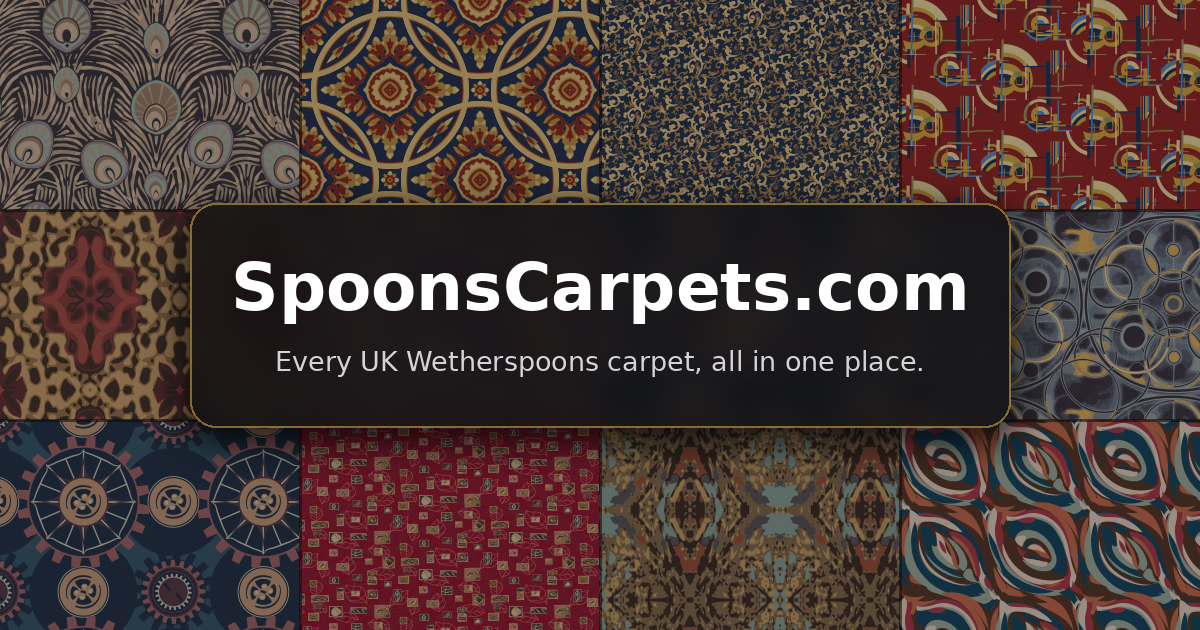
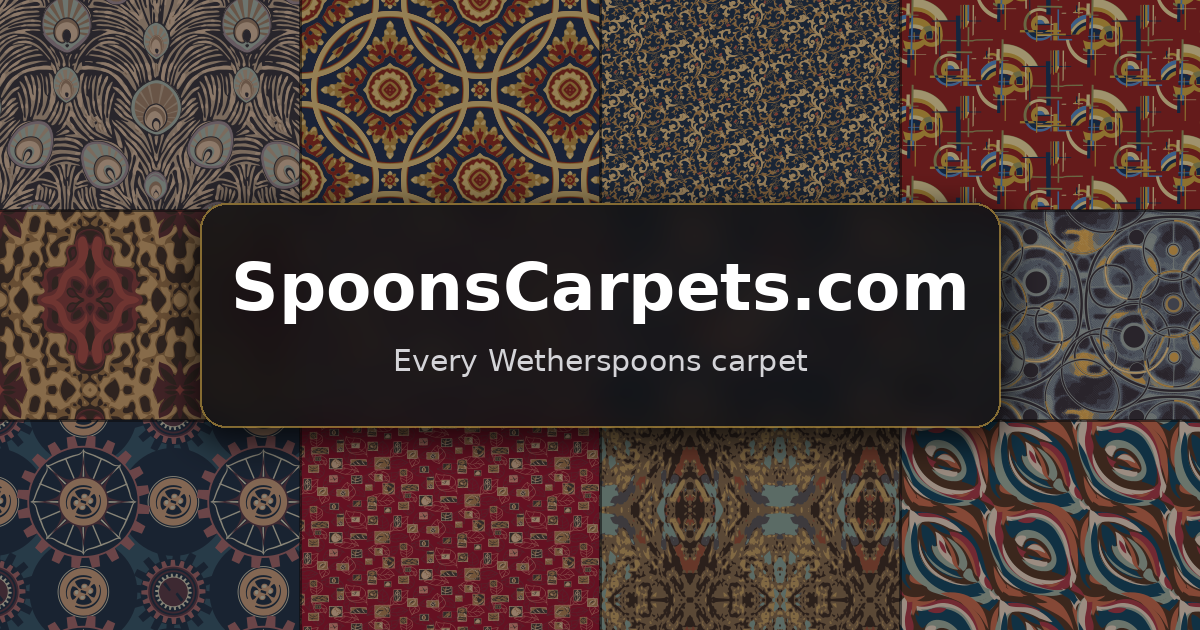
Simplify tagline to Every Wetherspoons carpet

diff --git a/index.html b/index.html
@@ -22,20 +22,20 @@
       href="https://fonts.googleapis.com/css2?family=DM+Sans:wght@400;500;600;700&amp;family=Pacifico&amp;display=swap"
     />
 
-    <title>SpoonsCarpets.com — Every UK Wetherspoons Carpet</title>
+    <title>SpoonsCarpets.com — Every Wetherspoons carpet</title>
     <meta
       name="description"
-      content="Explore all 768 UK Wetherspoons pub carpets (plus the 8 carpet-free pubs). Search by pub, town, colour, or nearest venue, and download phone wallpapers."
+      content="Every Wetherspoons carpet. Search by pub, town, colour, or nearest venue, and download phone wallpapers."
     />
 
     <!-- Open Graph -->
     <meta property="og:type" content="website" />
     <meta property="og:site_name" content="SpoonsCarpets.com" />
     <meta property="og:url" content="https://spoonscarpets.com/" />
-    <meta property="og:title" content="SpoonsCarpets.com — Every UK Wetherspoons Carpet" />
+    <meta property="og:title" content="SpoonsCarpets.com — Every Wetherspoons carpet" />
     <meta
       property="og:description"
-      content="All 768 UK Wetherspoons pub carpets plus the 8 carpet-free pubs. Search by pub, town, colour, or nearest Spoons, and download phone wallpapers."
+      content="Every Wetherspoons carpet. Search by pub, town, colour, or nearest venue, and download phone wallpapers."
     />
     <meta property="og:image" content="https://spoonscarpets.com/og-image.png" />
     <meta property="og:image:type" content="image/png" />
@@ -43,15 +43,15 @@
     <meta property="og:image:height" content="630" />
     <meta
       property="og:image:alt"
-      content="Mosaic of 12 UK Wetherspoons pub carpets with the SpoonsCarpets.com title"
+      content="Mosaic of 12 Wetherspoons pub carpets with the SpoonsCarpets.com title"
     />
 
     <!-- Twitter / X -->
     <meta name="twitter:card" content="summary_large_image" />
-    <meta name="twitter:title" content="SpoonsCarpets.com — Every UK Wetherspoons Carpet" />
+    <meta name="twitter:title" content="SpoonsCarpets.com — Every Wetherspoons carpet" />
     <meta
       name="twitter:description"
-      content="Every UK Wetherspoons carpet, all in one place. Search 776 pubs by name, town, colour, or download phone wallpapers."
+      content="Every Wetherspoons carpet. Search by pub, town, colour, or download phone wallpapers."
     />
     <meta name="twitter:image" content="https://spoonscarpets.com/og-image.png" />
 
@@ -62,7 +62,7 @@
         "@type": "CollectionPage",
         "name": "SpoonsCarpets.com",
         "url": "https://spoonscarpets.com/",
-        "description": "The complete archive of 768 UK J D Wetherspoon pub carpets and 8 confirmed carpet-free pubs.",
+        "description": "Every Wetherspoons carpet.",
         "image": "https://spoonscarpets.com/og-image.png",
         "isPartOf": {
           "@type": "WebSite",

diff --git a/src/App.tsx b/src/App.tsx
@@ -90,7 +90,7 @@ export default function App() {
       url.searchParams.delete("pub");
       setFloorMode(false);
       setDevOpen(false);
-      document.title = "SpoonsCarpets.com — Every UK Wetherspoons Carpet";
+      document.title = "SpoonsCarpets.com — Every Wetherspoons carpet";
     }
     window.history.replaceState(null, "", url.toString());
   }, [selected]);
